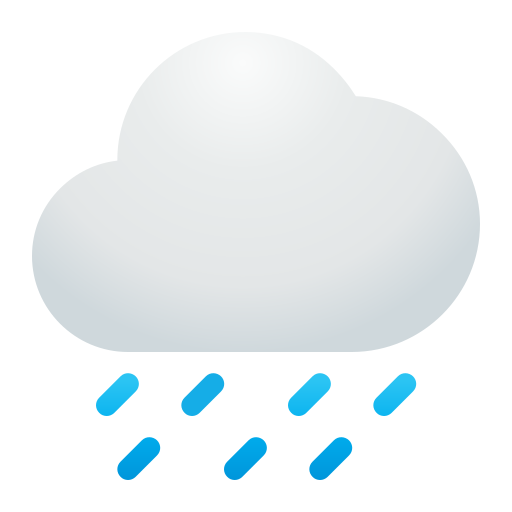
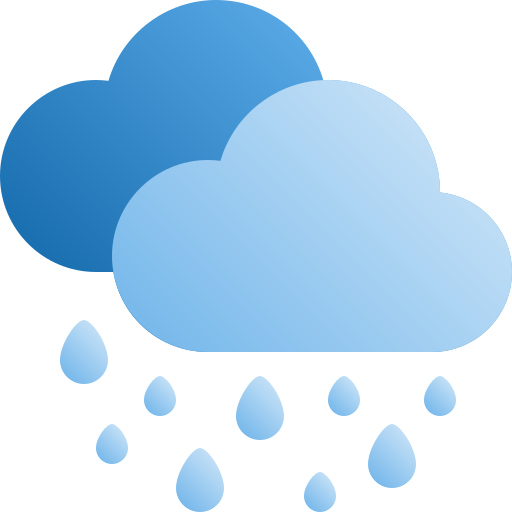
Added Style For Responsiveness

diff --git a/script.js b/script.js
@@ -31,13 +31,13 @@ searchButton.addEventListener("click", async () => {
         windSpeedDisplayed.innerText = `${windSpeed}km/h`;
         humidityPercentageDisplayed.innerText = `${humidity}%`;
 
-        if (cityNameDisplayed.innerText.length === 8) {
+        if (cityNameDisplayed.innerText.length === 8 && window.innerWidth > 565) {
             cityNameDisplayed.style.fontSize = "84px";
         }
-        else if (cityNameDisplayed.innerText.length >= 9) {
-            cityNameDisplayed.style.fontSize = "74px";
+        else if (cityNameDisplayed.innerText.length >= 9 && window.innerWidth > 565) {
+            cityNameDisplayed.style.fontSize = "70px";
         }
-        else {
+        else if (cityNameDisplayed.innerText.length < 8 && window.innerWidth > 565){
             cityNameDisplayed.style.fontSize = "90px";
         }
 
@@ -48,6 +48,10 @@ searchButton.addEventListener("click", async () => {
         }
         else if (weatherDescription.includes("clear")) {
             weatherIcon.setAttribute('src', 'Images/sun.png');
+
+        }
+        else if (weatherDescription.includes("rain")) {
+            weatherIcon.setAttribute('src', 'Images/drizzle.png');
 
         }
     }

diff --git a/style.css b/style.css
@@ -55,7 +55,7 @@ body {
 
 #weather-icon {
     width: 350px;
-    margin-top: 5px;
+    margin-top: 10px;
 }
 
 .detail-columns img {
@@ -102,7 +102,7 @@ body {
 #Temprature {
     position: relative;
     top: -160px;
-    font-size: 90px;
+    font-size: 100px;
     background: linear-gradient(#6ca4f8, #115b86);
     -webkit-background-clip: text;
     /* Safari/Chrome */
@@ -119,4 +119,39 @@ body {
     font-size: 90px;
     top: -210px;
 
+}
+
+@media screen and (max-width: 565px) {
+  #main-container {
+    width: 100%;
+}
+
+#city-name{
+    font-size: 50px;
+    top: -200px;
+}
+
+#Temprature{
+    font-size: 80px;
+}
+
+#weather-icon {
+    width: 300px;
+}
+
+#humidity-percentage {
+    font-size: 25px;
+}
+
+#wind-speed {
+    font-size: 25px;
+}
+
+.detail-columns img {
+    width: 50px;
+}
+
+.detail-columns:first-of-type img {
+    width: 50px;
+}
 }
